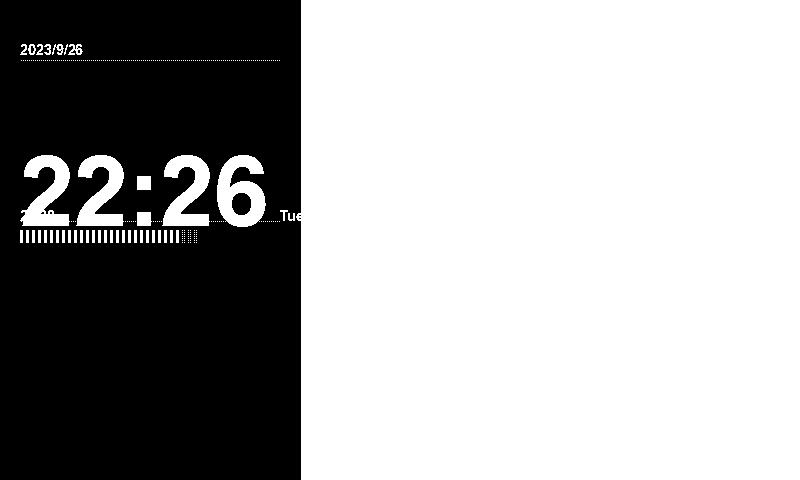
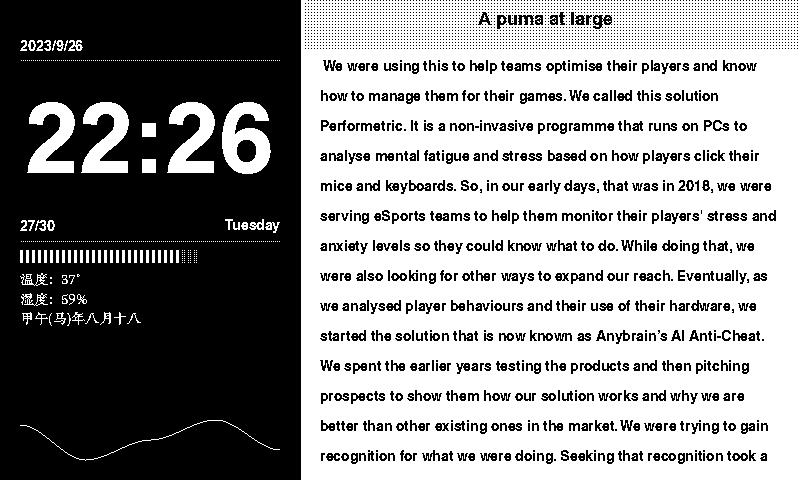
add 真实天气

diff --git a/app.py b/app.py
@@ -2,6 +2,8 @@
 # -*- coding:utf-8 -*-
 import sys
 import os
+import math
+import numpy as np
 # picdir = os.path.join(os.path.dirname(os.path.dirname(os.path.realpath(__file__))), 'pic')
 # libdir = os.path.join(os.path.dirname(os.path.dirname(os.path.realpath(__file__))), 'lib')
 # if os.path.exists(libdir):
@@ -12,10 +14,76 @@ import logging
 import time
 from PIL import Image,ImageDraw,ImageFont
 import traceback
-
+import re
+from shapely.geometry import LineString
 width = 800
 height = 480
 
+global_x = 0
+global_y = 0
+
+
+
+def translate(x: int, y: int):
+    global global_x
+    global_x = x
+    global global_y
+    global_y = y
+    
+def smoothstep(x):
+    if x <= 0:
+        return 0
+    elif x >= 1:
+        return 1
+    else:
+        return x * x * (3 - 2 * x)
+    
+def make_bezier(xys):
+    # xys should be a sequence of 2-tuples (Bezier control points)
+    n = len(xys)
+    combinations = pascal_row(n-1)
+    def bezier(ts):
+        # This uses the generalized formula for bezier curves
+        # http://en.wikipedia.org/wiki/B%C3%A9zier_curve#Generalization
+        result = []
+        for t in ts:
+            tpowers = (t**i for i in range(n))
+            upowers = reversed([(1-t)**i for i in range(n)])
+            coefs = [c*a*b for c, a, b in zip(combinations, tpowers, upowers)]
+            result.append(
+                tuple(sum([coef*p for coef, p in zip(coefs, ps)]) for ps in zip(*xys)))
+        return result
+    return bezier
+
+def pascal_row(n, memo={}):
+    # This returns the nth row of Pascal's Triangle
+    if n in memo:
+        return memo[n]
+    result = [1]
+    x, numerator = 1, n
+    for denominator in range(1, n//2+1):
+        # print(numerator,denominator,x)
+        x *= numerator
+        x /= denominator
+        result.append(x)
+        numerator -= 1
+    if n&1 == 0:
+        # n is even
+        result.extend(reversed(result[:-1]))
+    else:
+        result.extend(reversed(result))
+    memo[n] = result
+    return result
+    
+def is_point_inside_rectangle(point, rectangle):
+    x, y = point  # 点的坐标
+    x1, y1, x2, y2 = rectangle  # 矩形的边界
+
+    if x1 <= x <= x2 and y1 <= y <= y2:
+        return True
+    else:
+        return False
+        
 # logging.basicConfig(level=logging.DEBUG)
 
 
@@ -23,11 +91,41 @@ def draw_dash_line(draw: ImageDraw.ImageDraw, x:int, y: int, length: int, gap = 
     for index in range(0, length):
         if index % 2 == 0:
             continue
-        draw.point((x + index, y), fill=color)
+        draw.point((global_x + x + index, global_y + y), fill=color)
 
 
 def draw_line(draw: ImageDraw.ImageDraw, x:int, y: int, length: int, color=1, width = 1):
-    draw.line((x, y, x + length, y), fill=color, width=width)
+    draw.line((global_x + x, global_y + y, global_x + x + length, global_y + y), fill=color, width=width)
+    
+
+def v2_length(s: (int, int), e: (int, int)):
+    return int(math.sqrt((e[0] - s[0]) ** 2 + (e[1] - s[1]) ** 2))
+
+def draw_rect(draw: ImageDraw.ImageDraw, x:int, y: int, width: int, height, color = 1, radius = 0):
+    lt = (radius, radius)
+    rt = (width - radius, radius)
+    lb = (radius, height - radius)
+    rb = (width - radius, height - radius)
+    
+    rect1 = (0, 0, radius, radius)
+    rect2 = (width -radius, 0, width, radius)
+    rect3 = (0, height - radius, radius, height)
+    rect4 = (width -radius, height - radius, width, height)
+    
+    
+    for offset_y in range(0, height):
+        for offset_x in range(0, width):
+            point = (offset_x, offset_y)
+            if not radius != 0 and is_point_inside_rectangle(point, rect1) and v2_length(point, lt) >= radius:
+                continue
+            if not radius != 0 and is_point_inside_rectangle(point, rect2) and v2_length(point, rt) >= radius:
+                continue
+            if not radius != 0 and is_point_inside_rectangle(point, rect3) and v2_length(point, lb) >= radius:
+                continue
+            if not radius != 0 and is_point_inside_rectangle(point, rect4) and v2_length(point, rb) >= radius:
+                continue
+            if offset_y % 3 == 0  and offset_x % 3 == 0:
+                draw.point((global_x + offset_x + x, global_y + offset_y + y), fill=color)
 
 
 def draw_progress(draw: ImageDraw.ImageDraw, x:int, y: int, current: int, total: int, height: int, color=1):
@@ -36,25 +134,66 @@ def draw_progress(draw: ImageDraw.ImageDraw, x:int, y: int, current: int, total:
     # x += offset_x
     for index in range(0, total):
         if index < current:
-            draw.rectangle((x + index * gsp, y, x + index * gsp + 2, y + height), fill=1)
+            draw.rectangle((global_x + x + index * gsp, global_y + y, global_x + x + index * gsp + 2, global_y + y + height), fill=1)
         else:
             for k in range(0, height + 1):
-                print(k)
                 # draw.line((x + index * 4, y, x + index * 4, y + height), fill=2, width=2)
                 if k % 2 == 0 or k == (height):
-                    draw.point((x + index * gsp, y + k), fill=color)
-                    # draw.point((x + index * gsp + 1, y + k), fill=color)
-                    draw.point((x + index * gsp + 2, y + k), fill=color)
+                    draw.point((global_x + x + index * gsp, global_y + y + k), fill=color)
+                    # draw.point((global_x + x + index * gsp + 1, y + k), fill=color)
+                    draw.point((global_x + x + index * gsp + 2, global_y + y + k), fill=color)
 
 
 def draw_text(draw: ImageDraw.ImageDraw, text: str, x:int, y: int, font: ImageFont, width: int,  height: int, align: str, color = 1, base = 'none'):
-    (sx, sy, ex, ey) = draw.textbbox((x, y), '2023/09/26', font=font)
+    (sx, sy, ex, ey) = draw.textbbox((x, y), text, font=font)
     text_width = ex - sx
     text_height = ey - sy
     offset_x =  0 if align == 'left' else (width) / 2 if align == 'center' else width
     offset_y = int((height) / 2 - text_height / 2)
-    print((x + offset_x, y + offset_y))
-    draw.text((x + offset_x, y + offset_y), text, fill=color, font=font, align=align)
+    anchor = 'lt'
+    if align == 'center':
+        anchor = 'mm'
+    elif align == 'right':
+        anchor = 'rt'
+    draw.text((global_x + x + offset_x, global_y + y + offset_y ), text, fill=color, font=font, anchor=anchor)
+
+
+
+def draw_text_multi(draw: ImageDraw.ImageDraw, text: str, x, y, width: int, max_height, font: ImageFont):
+    width_limit = width
+    # 计算每行文字的高度
+    (sx, sy, ex, ey) = draw.textbbox((0, 0), "A", font=font)
+    
+    text_height = int(ey - sy)
+
+    # 按限定宽度进行换行
+    lines = []
+    current_line = ''
+    
+    texts = re.split(r'\s', text)
+    
+    for word in texts:
+        (tsx, tsy, tex, tey) = draw.textbbox((0, 0), current_line + ' ' + word, font=font)
+        if (tex - tsx) <= width_limit:
+            current_line += (' ' + word)
+        else:
+            for item in current_line.split('\n'):
+                lines.append(item)
+                current_line = word
+    lines.append(current_line)
+    
+    # print(lines)
+    
+    current_height = 0
+    for index, text in enumerate(lines):
+        if current_height >= max_height:
+            break
+        # print((global_x +  x, global_y + y + index * 30))
+        draw.text((global_x +  x, global_y + y + index * 30), text, fill=0, font=font)
+        current_height = (index + 1) * 30;
+    
+
+
 
 try:
     logging.info("epd7in5_V2 Demo")
@@ -77,19 +216,97 @@ try:
 
     draw = ImageDraw.Draw(Himage)
 
+    # 背景 
     draw.rectangle((0, 0, 300, 480), 0)
+    translate(20, 20)
 
-    draw_text(draw, '2023/9/26', 20, 20, font=font14, width=260, height=40, align='left', color=255)
-    draw_dash_line(draw, 20,60, 260, 255)
+    # 日期
+    draw_text(draw, '2023/9/26', 0, 6, font=font14, width=260, height=40, align='left', color=255)
+    # 分割线
+    draw_dash_line(draw, 0,40, 260, 255)
+
+    # 时间
+    draw_text(draw, '22:26', 0, 41, font=font96, width=260, height=200, align='center', color=255)
+
+    # 进度
+    draw_text(draw, '27/30', 0, 221 - 30, font=font14, width=260, height=30, align='left', color=255)
+    # 星期
+    draw_text(draw, 'Tuesday', 0, 221 - 30, font=font14, width=260, height=30, align='right', color=255)
+    # 分割线
+    draw_dash_line(draw, 0,221, 260, 255)
+    # 进度条
+    draw_progress(draw, 0, 230, 27, 30, 12)
+   
+    draw_text(draw,'温度：37°', 0, 250, font=font_c_14, width=260, height=20, align='left')
+   
+    draw_text(draw,'湿度：59%', 0, 270, font=font_c_14, width=260, height=20, align='left')
+   
+    text = u"""\甲午(马)年八月十八\n祭祀 出行 扫舍 馀事勿取\n诸事不宜"""
+    
+    # draw.multiline_text((0, 250), text, fill=1, font=font_c_14, spacing=6)
+    draw_text(draw,'甲午(马)年八月十八', 0, 290, font=font_c_14, width=260, height=20, align='left')
+    # draw_text(draw,'祭祀 出行 扫舍 馀事勿取', 0, 310, font=font_c_14, width=260, height=20, align='left')
+    # draw_text(draw,'诸事不宜', 0, 330, font=font_c_14, width=260, height=20, align='left')
+    
+    translate(20, 360)
+    # draw_rect(draw, 0, 360, 40, 40, color=0, radius=3)
+    # 定义曲线的控制点
+    
 
 
-    draw_text(draw, '22:26', 20, 21, font=font96, width=260, height=200, align='left', color=255)
+    path = [35, 28, 32, 36, 30]
 
-    draw_text(draw, '27/30', 20, 221 - 30, font=font14, width=260, height=30, align='left', color=255)
-    draw_text(draw, 'Tuesday', 20, 221 - 30, font=font14, width=260, height=30, align='right', color=255)
-    draw_dash_line(draw, 20,221, 260, 255)
 
-    draw_progress(draw, 20, 230, 27, 30, 12)
+    start_y = 420
+    max_value = max(path)
+    min_value = min(path)
+    dt = int(max_value - min_value)
+    
+    max_height = 40
+    
+    step = int(260 / 4)
+
+    for (index, item) in enumerate(range(1, len(path))):
+        sy = path[item -1]
+        ey = path[item]
+        print(sy, ey)
+        for k in range(0, step):
+            draw.point((20 + int(index * step + k), int(start_y + (max_value - (sy + smoothstep(k/step) * (ey - sy))) * (max_height / dt))), fill=1)
+
+    # 绘制曲线
+    # draw.line(points, fill='blue', width=2, joint='curve')
+    
+    
+    
+    
+    
+    
+    
+    
+    
+    
+    
+    
+    
+    
+    
+    # 右侧内容
+    translate(305, 0)
+    draw_rect(draw, 0, 0, width-305, height=50, color=0)
+    # 绘制标题
+    draw_text(draw, 'A puma at large', 0, 0, font18, 480, 50, 'center', color=0)
+    translate(320, 50)
+    
+    content = u'''We were using this to help teams optimise their players and know how to manage them for their games. We called this solution Performetric. It is a non-invasive programme that runs on PCs to analyse mental fatigue and stress based on how players click their mice and keyboards.
+So, in our early days, that was in 2018, we were serving eSports teams to help them monitor their players' stress and anxiety levels so they could know what to do. While doing that, we were also looking for other ways to expand our reach.
+Eventually, as we analysed player behaviours and their use of their hardware, we started the solution that is now known as Anybrain’s AI Anti-Cheat. We spent the earlier years testing the products and then pitching prospects to show them how our solution works and why we are better than other existing ones in the market. We were trying to gain recognition for what we were doing. Seeking that recognition took a while, but it has brought us here eight years later.
+Anh-Vu: So, yes, we have existed as a team for a long time. But I joined them more recently. André and Serafim began working on the technology for our line of products many years ago.'''
+    
+    draw_text_multi(draw, content, 0, 0, 460, max_height = 410, font=font14)
+    
+    # 绘制内容
+    
+    Himage.show()
 
 
     # draw.text((10, 20), '7.5inch e-Paper', font=font14, fill = 0)

diff --git a/request.py b/request.py
@@ -1,0 +1,52 @@
+import requests
+import datetime
+
+def request_english_day():
+    requests.get('')
+    
+
+# 日历
+def request_calender():
+    
+    params = {
+        'date': '2023-9-28',
+        'key': 'ebde19bd911cfdc29ba69075a955aed6'
+    }
+    
+    # 发送GET请求
+    response = requests.get('http://v.juhe.cn/calendar/day',params=params)
+    if response.status_code == 200:
+        data = response.json()
+        print(data)
+        return data
+    else:
+        print('请求失败:', response.status_code)
+
+
+
+# 天气
+def request_weather():
+    params = {
+        'cityname': 'CHXX0008',
+        'key': '6b1333527278ef25ef6b36e3755efe84'
+    }
+    response = requests.get('http://v.juhe.cn/weather/index', params=params)
+    if response.status_code == 200:
+        data = response.json()
+        print(data)
+        return data
+    else:
+        print('请求失败:', response.status_code)
+        
+def request_time() -> datetime:
+    response = requests.get('https://api.m.taobao.com/rest/api3.do?api=mtop.common.getTimestamp')
+    if response.status_code == 200:
+        data = response.json()
+        time = int(data['data']['t']) / 1000
+        return datetime.datetime.fromtimestamp(int(time))
+    else:
+        print('请求失败:', response.status_code)
+
+request_weather()
+request_calender()
+print(request_time())
